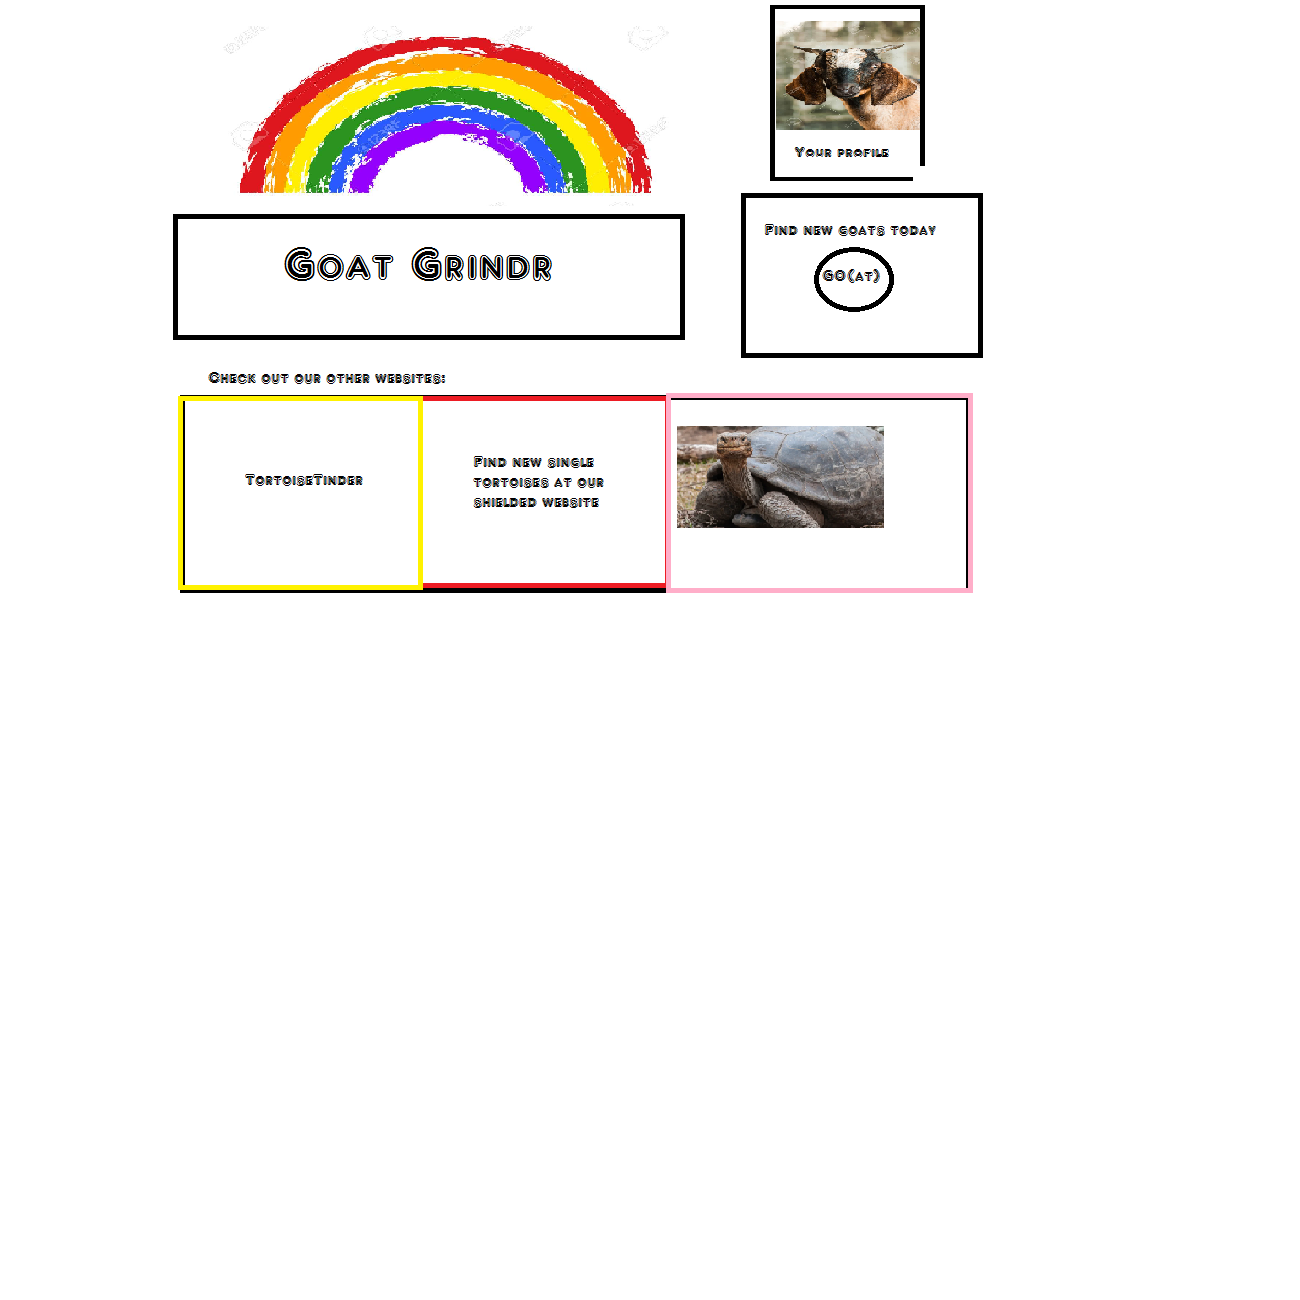
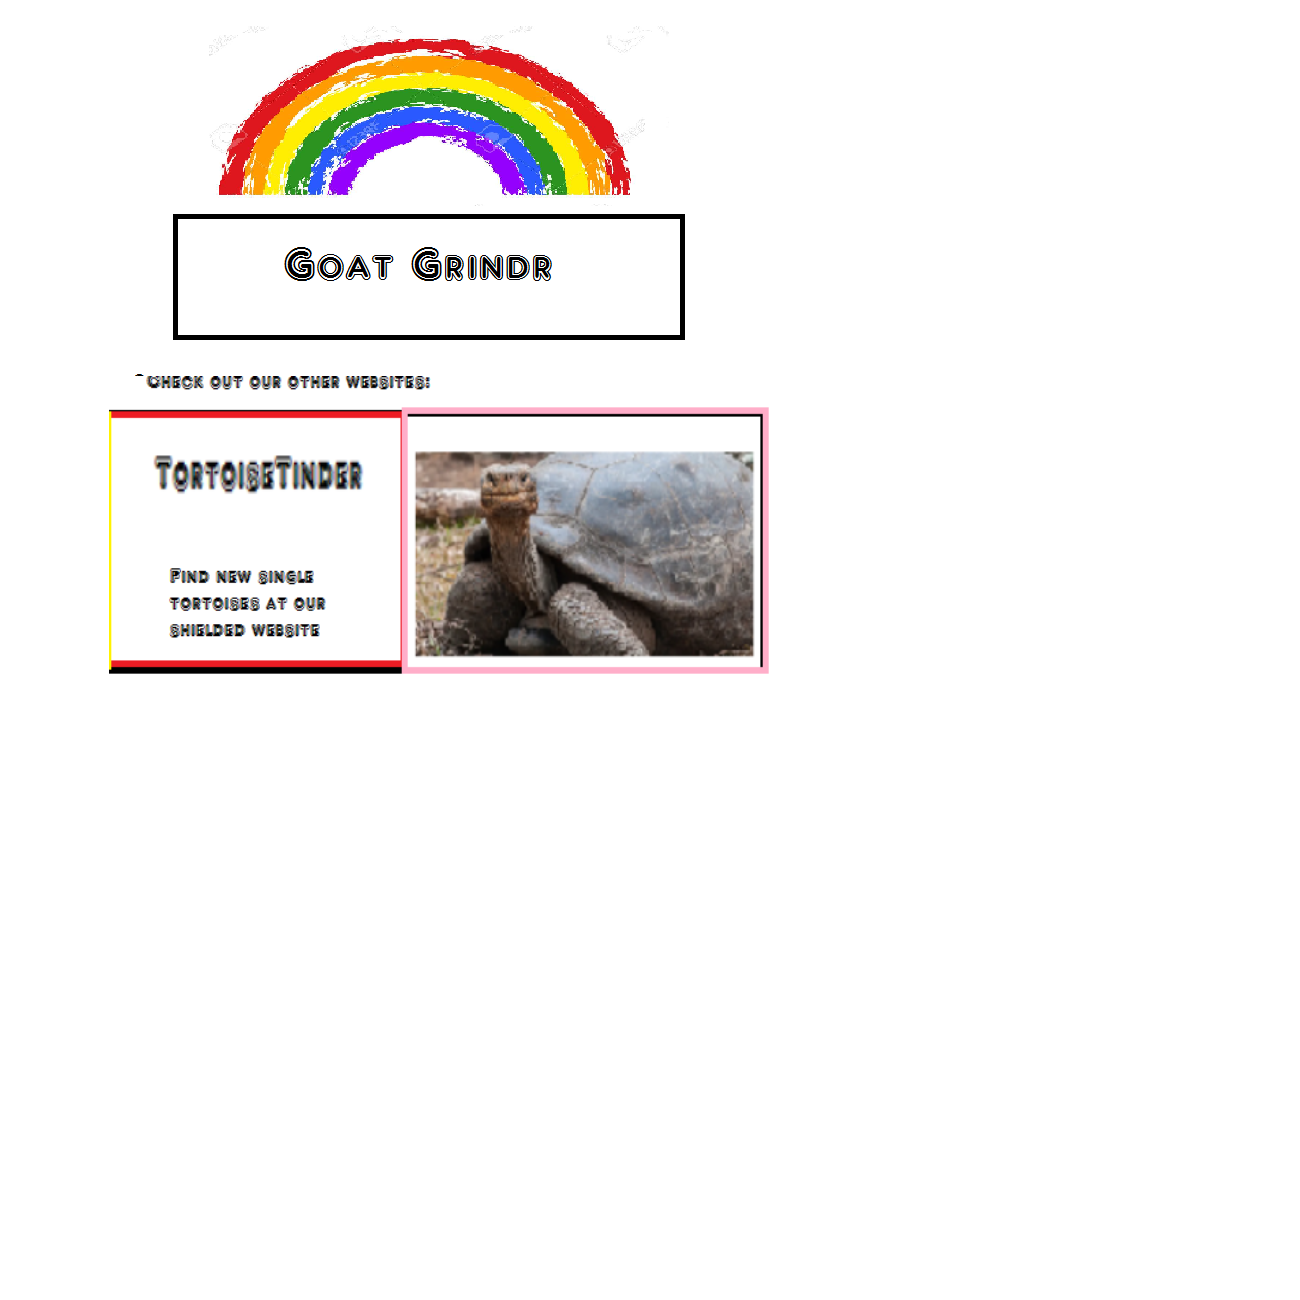
Main menu works

Changed region(s): [[0.0615, 0.0, 0.7692, 0.5231], [0.1538, 0.0308, 0.5231, 0.1538]]

diff --git a/src/main/resources/templates/match.html b/src/main/resources/templates/match.html
@@ -10,21 +10,19 @@
     <header id="header">
         <div class="container">
             <div class="navbar-header">
-                <a class="logo" href="/"><img src="/goatLogo.png" alt="WizkidsLogo"></a>
+                <a class="logo" href="/"><img src="/goatLogo.png" alt="goatLogo"></a>
 
-                <a id="menu-item-32" href="/mainmenu">
-                    <button class="topButton" id="btn-employeeList">Medarbejdere</button>
-                </a>
                 <a id="menu-item-33" href="/match">
-                    <button class="topButton" id="btn-sessionList">Sessioner</button>
+                    <button class="topButton" id="btn-match">Sessioner</button>
                 </a>
                 <a id="menu-item-34" href="/profile">
-                    <button class="topButton" id="btn-projectList">Projekter</button>
+                    <button class="topButton" id="btn-profile">Projekter</button>
                 </a>
             </div>
         </div>
     </header>
 </div>
+
 
 
 </body>

diff --git a/src/main/resources/templates/mainmenu.html b/src/main/resources/templates/mainmenu.html
@@ -5,9 +5,57 @@
     <title>Main Menu</title>
 </head>
 <body>
-<h1>Welcome to the legendary goat dating system</h1>
+<div>
+    <header>
+        <img src="rainbow.png" height="200" width="450">
+        <h1>
+            Goat Grinder.
+        </h1>
+    </header>
 
-<img src="mainmenu.png">
+</div>
+
+<p>
+    Please input your login information.
+</p>
+
+<table>
+    <tr>
+        <td>
+            <label>Brugernavn: </label>
+        </td>
+        <td>
+            <input type="text" name="username"/>
+        </td>
+    </tr>
+    <tr>
+        <td>
+            <label>Password: </label>
+        </td>
+        <td>
+            <input type="text" name="password"/>
+        </td>
+    </tr>
+    <tr>
+        <button type="button">Go(at)!</button>
+    </tr>
+
+</table>
+
+
+<footer>
+    <h1>
+        Advertisements for our partner sites.
+    </h1>
+
+    <div>
+        <img src="hornyHamster.png" height="150" width="150" float="right">
+    </div>
+
+    <div>
+
+    </div>
+</footer>
 
 </body>
 </html>

diff --git a/src/main/java/stud/kea/lbh/goatsite/controller/view/MainViewController.java b/src/main/java/stud/kea/lbh/goatsite/controller/view/MainViewController.java
@@ -23,7 +23,7 @@ public class MainViewController {
         return "test.html";
     }
 
-    @GetMapping(value = "/mainmenu")
+    @GetMapping(value = "/")
     public String mainMenu(){
         return "mainmenu.html";
     }
